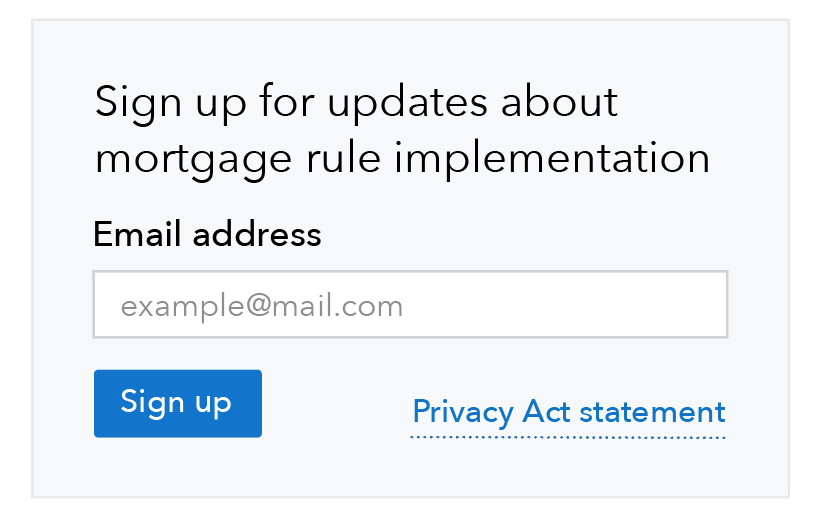
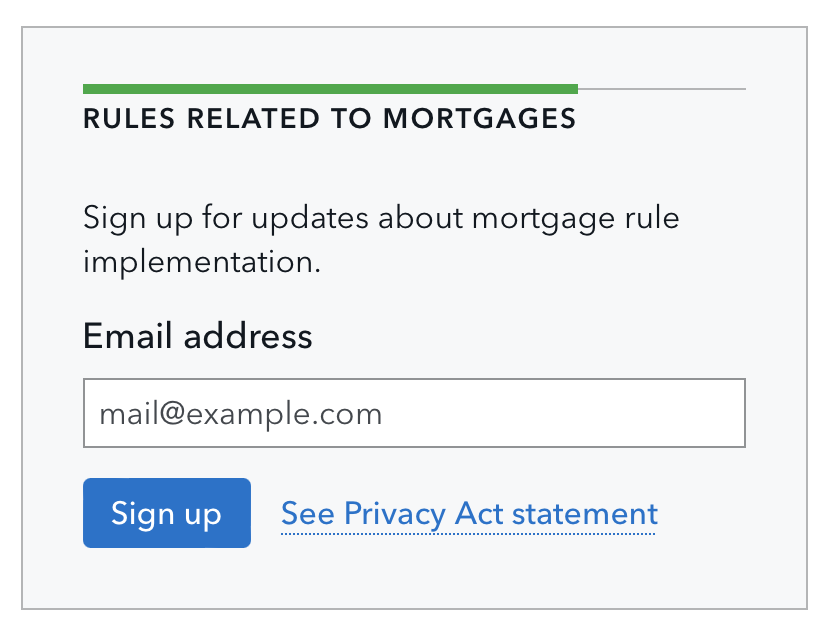
Remove  class from links

diff --git a/docs/pages/buttons.md b/docs/pages/buttons.md
@@ -187,7 +187,7 @@ variation_groups:
 
           <div class="m-btn-group">
               <a class="a-btn" href="#">Submit</a>
-              <a class="a-btn a-btn--link a-btn--secondary" href="#">
+              <a class="a-btn a-btn--link" href="#">
                   See Privacy Act statement
               </a>
           </div>
@@ -203,7 +203,7 @@ variation_groups:
                   <span>Download CSV</span>
                   <svg xmlns="http://www.w3.org/2000/svg" aria-hidden="true" class="cf-icon-svg cf-icon-svg--download" viewBox="0 0 12 19"><path d="M11.16 16.153a.477.477 0 0 1-.476.475H1.316a.476.476 0 0 1-.475-.475V3.046a.476.476 0 0 1 .475-.475h6.95l2.893 2.893zm-1.11-9.925H8.059a.575.575 0 0 1-.574-.573V3.679H1.95v11.84h8.102zm-1.234 5.604L6.388 14.26a.554.554 0 0 1-.784 0l-2.428-2.428a.554.554 0 1 1 .783-.784l1.483 1.482V7.41a.554.554 0 1 1 1.108 0v5.12l1.482-1.482a.554.554 0 0 1 .784.783z"></path></svg>
               </button>
-              <a class="a-btn a-btn--link a-btn--secondary" href="#">
+              <a class="a-btn a-btn--link" href="#">
                   <span>External link</span>
                   <svg xmlns="http://www.w3.org/2000/svg" aria-hidden="true" class="cf-icon-svg cf-icon-svg--external-link" viewBox="0 0 14 19"><path d="M13.017 3.622v4.6a.554.554 0 0 1-1.108 0V4.96L9.747 7.122a1.7 1.7 0 0 1 .13.646v5.57A1.664 1.664 0 0 1 8.215 15h-5.57a1.664 1.664 0 0 1-1.662-1.663v-5.57a1.664 1.664 0 0 1 1.662-1.662h5.57A1.65 1.65 0 0 1 9 6.302l2.126-2.126H7.863a.554.554 0 1 1 0-1.108h4.6a.554.554 0 0 1 .554.554M8.77 8.1l-2.844 2.844a.554.554 0 0 1-.784-.783l2.947-2.948H2.645a.555.555 0 0 0-.554.555v5.57a.555.555 0 0 0 .554.553h5.57a.555.555 0 0 0 .554-.554z"></path></svg>
               </a>

diff --git a/docs/pages/e-mail-signup-forms.md b/docs/pages/e-mail-signup-forms.md
@@ -29,7 +29,7 @@ variation_groups:
                   </div>
                   <div class="o-email-signup__buttons">
                       <button class="a-btn">Sign up</button>
-                      <a class="a-btn a-btn--link a-btn--secondary" href="#" target="_blank" rel="noopener noreferrer">
+                      <a class="a-btn a-btn--link" href="#" target="_blank" rel="noopener noreferrer">
                       See Privacy Act statement
                       </a>
                   </div>
@@ -69,7 +69,7 @@ variation_groups:
                       </div>
                       <div class="o-email-signup__buttons">
                           <button class="a-btn">Sign up</button>
-                          <a class="a-btn a-btn--link a-btn--secondary" href="#" target="_blank" rel="noopener noreferrer">
+                          <a class="a-btn a-btn--link" href="#" target="_blank" rel="noopener noreferrer">
                           See Privacy Act statement
                           </a>
                       </div>
